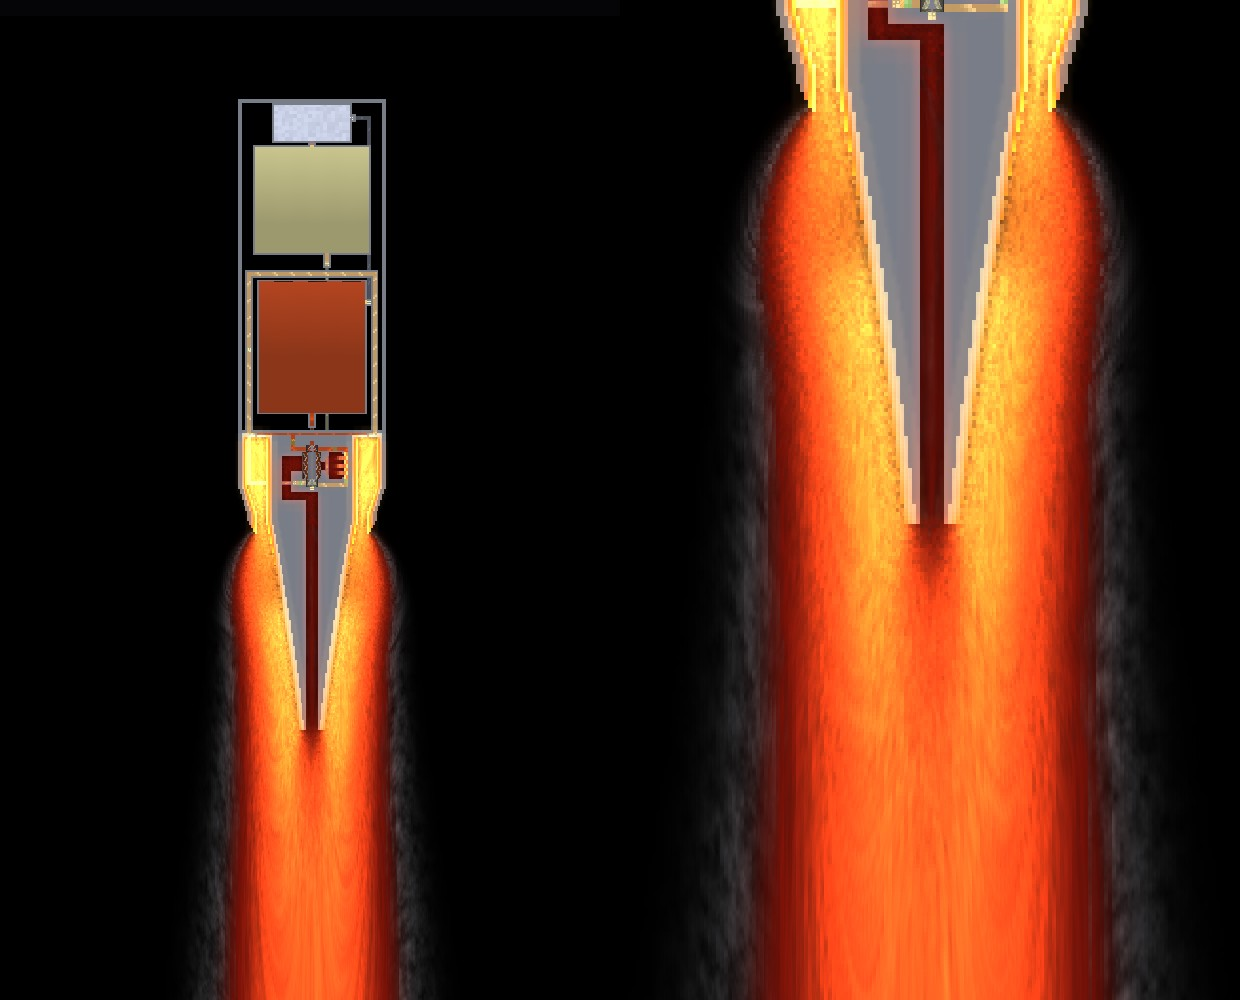
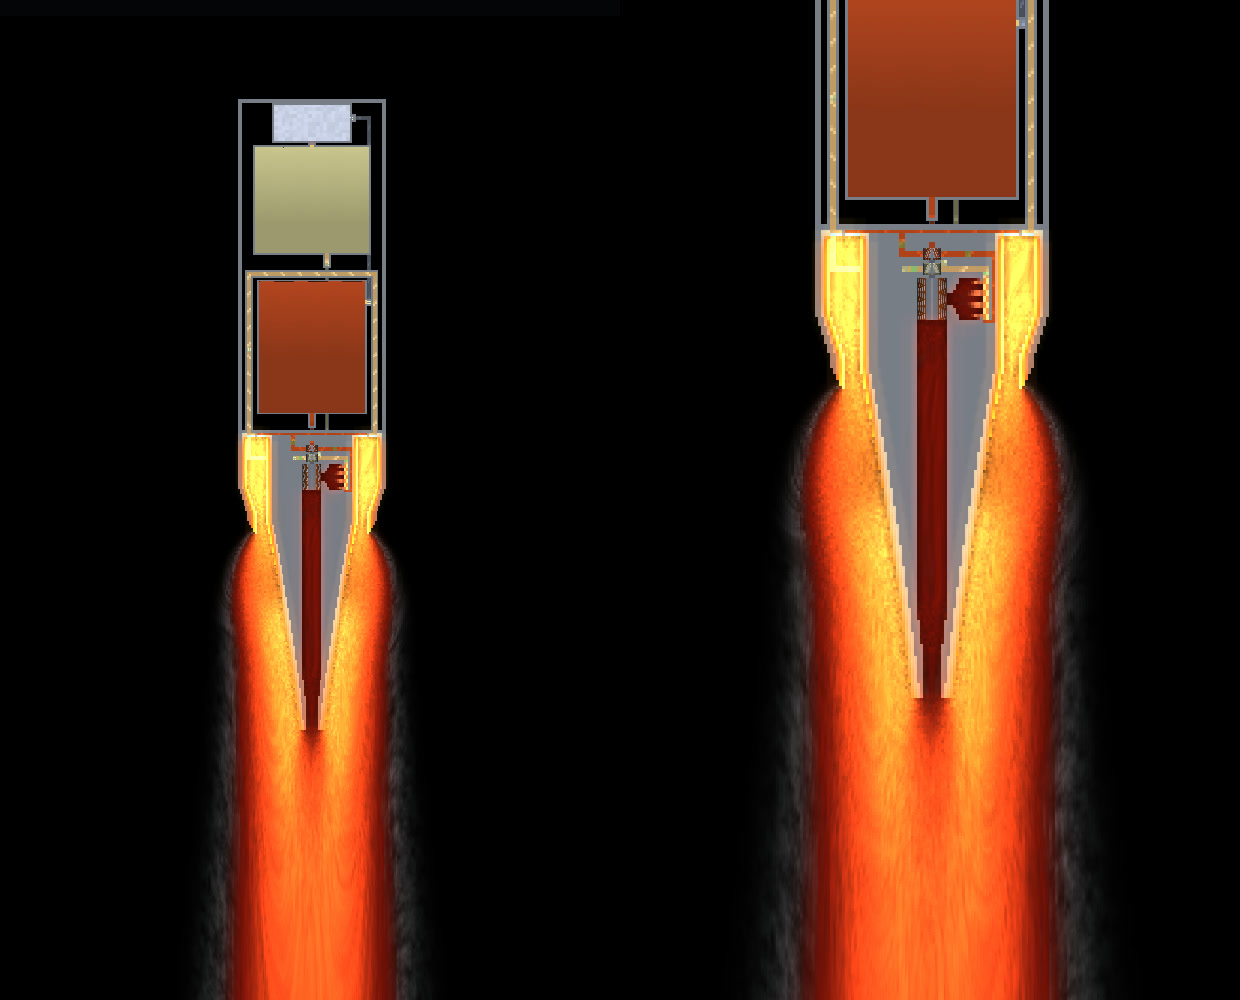
Gas-generator aerospike: turbine at the bottom, straight exhaust down the axis
The shaft is now oxidiser pump, shaft cell, fuel pump, shaft cell, turbine, with the turbine
at the bottom so its exhaust leaves the bottom face straight down the middle of the spike in
a duct that narrows with the spike and opens out of the truncated base, instead of out of the
side, down an L-shaped duct with a jog (less back pressure on the wheel). A pipe touching any
face of a pump joins its network, so the pumps need no open end face; the shaft cells keep the
two pumps from merging into one block. The generator's oxidiser pipe now runs down a one-cell
pipe at the far right past the head to a row under it, and its fuel comes in from above.

diff --git a/src/presets.rs b/src/presets.rs
@@ -1366,21 +1366,27 @@ impl World {
             self.rect(127, y_cap - 1, 128, y_cap + 1, c::PIPE);
             self.rect(127, y_cap - 1, 128, y_cap - 1, c::THROTTLE);
         } else if e.gg {
-            // Gas-generator turbopumps down the middle of the spike, one shaft: oxidiser pump on top, the turbine, the fuel pump
-            // below. The generator is bolted to the turbine's right face, its exhaust leaves the left face into a duct that runs
-            // down the left, jogs to the axis under the fuel pump, and opens out of the spike's truncated base. Both pump outlets
-            // that cross a slot chamber use the back layer, and so do both feeds in.
+            // Gas-generator turbopumps down the middle of the spike, one shaft: oxidiser pump on top, a shaft cell, the fuel pump,
+            // another, and the turbine at the bottom. The turbine's exhaust leaves its bottom face straight down the axis in a duct
+            // that narrows with the spike and opens out of the truncated base, the shortest, straightest way out (little back
+            // pressure on the wheel). The generator is bolted to the turbine's right face. A pipe touching any face of a pump joins
+            // its network, so the pumps need no open end; the shaft cells keep the two pumps from merging into one block.
             let xc = 128;
             let (d_o, l_o, d_f, l_f, d_t, l_t) = (6, 4, 6, 4, 10, 14);
             let y_o = y_cap + 8;
-            let (y_t, y_f) = (y_o + l_o, y_o + l_o + l_t);
+            let y_s1 = y_o + l_o; // shaft cell row between the pumps
+            let y_f = y_s1 + 1;
+            let y_s2 = y_f + l_f; // shaft cell row between the fuel pump and the turbine
+            let y_t = y_s2 + 1;
             let (ox0, ox1) = (xc - d_o / 2, xc - d_o / 2 + d_o - 1);
             let (tx0, tx1) = (xc - d_t / 2, xc - d_t / 2 + d_t - 1);
             let (pf0, pf1) = (xc - d_f / 2, xc - d_f / 2 + d_f - 1);
-            self.rect(ox0, y_o, ox1, y_t - 1, c::PUMP);
-            self.rect(tx0, y_t, tx1, y_f - 1, c::TURBINE);
+            self.rect(ox0, y_o, ox1, y_s1 - 1, c::PUMP);
+            self.rect(xc - 1, y_s1, xc, y_s1, c::SHAFT);
             self.rect(pf0, y_f, pf1, y_f + l_f - 1, c::PUMP);
-            let (cy0, cy1) = (y_t, y_f - 1);
+            self.rect(xc - 1, y_s2, xc, y_s2, c::SHAFT);
+            self.rect(tx0, y_t, tx1, y_t + l_t - 1, c::TURBINE);
+            let (cy0, cy1) = (y_t, y_t + l_t - 1);
             // the generator: a head on the right, a cavity, and a funnel narrowing to a 4-row opening onto the turbine
             let hx = 145;
             let (gc0, gc1) = (137, 144);
@@ -1390,24 +1396,24 @@ impl World {
                 self.rect(gc0 - 1 - k, cy0 + inset, gc0 - 1 - k, cy1 - inset, c::EMPTY);
             }
             self.rect(hx, cy0, hx + 1, cy1, c::GG);
-            // generator feeds: oxidiser from the oxidiser pump's right side, over and down onto the head's top, through a valve;
-            // fuel from the fuel pump's right side, along and up through a valve onto the head's bottom
+            // generator feeds. Oxidiser: out of the oxidiser pump's right side, along, and down a one-cell pipe at the far right of
+            // the spike past the head to a row under it, through a valve. Fuel: out of the fuel pump's right side, along to the
+            // head, and down through a valve onto its top. (The two never touch: the oxidiser pipe stays a cell clear of the head.)
             let yo_m = y_o + l_o / 2 - 1;
-            self.rect(ox1 + 1, yo_m, hx + 1, yo_m + 1, c::PIPE);
+            self.rect(ox1 + 1, yo_m, 148, yo_m + 1, c::PIPE);
             self.rect(hx - 6, yo_m, hx - 5, yo_m + 1, c::VALVE_X);
-            self.rect(hx, yo_m, hx + 1, cy0 - 1, c::PIPE);
-            let yf_m = y_f + l_f / 2 - 1;
-            let yf_g = y_f + 2; // the generator's fuel row, a little below the main outlet's
+            self.rect(148, yo_m + 2, 148, cy1 + 1, c::PIPE);
+            self.rect(hx, cy1 + 1, 148, cy1 + 1, c::PIPE);
+            let yf_g = y_f + 1; // the generator's fuel row
             self.rect(pf1 + 1, yf_g, hx + 1, yf_g + 1, c::PIPE);
-            self.rect(hx, cy1 + 1, hx + 1, cy1 + 1, c::PIPE);
-            self.rect(hx, cy1 + 2, hx + 1, cy1 + 2, c::VALVE_X);
-            // the exhaust: a window on the turbine's left face, a channel down the left, a jog to the axis under the fuel pump, and
-            // a channel down the axis out of the base
-            let y_fi = y_f + l_f; // fuel inlet rows y_fi, y_fi + 1
-            self.rect(112, y_t + 2, tx0 - 1, y_t + 9, c::EMPTY);
-            self.rect(112, y_t + 2, 116, y_fi + 6, c::EMPTY);
-            self.rect(112, y_fi + 3, xc + 2, y_fi + 6, c::EMPTY);
-            self.rect(xc - 3, y_fi + 3, xc + 2, y_end as i32, c::EMPTY);
+            self.rect(hx, yf_g + 2, hx + 1, yf_g + 2, c::VALVE_X);
+            self.rect(hx, yf_g + 3, hx + 1, cy0 - 1, c::PIPE);
+            // the exhaust: straight down the axis from the turbine's bottom face, as wide as the spike allows (half-width 5, less
+            // near the base where the spike is thin) and out of the base
+            for y in (y_t + l_t)..=(y_end as i32) {
+                let hd = (spike(y as f32 + 0.5) - liner - 2.0).clamp(3.0, 5.0) as i32;
+                self.rect(xc - hd, y, xc + hd - 1, y, c::EMPTY);
+            }
             // oxidiser main outlet: out of the pump's left side and up to the line over the top of the spike, through the main valve
             // and the throttle (downstream of the pump, as on the Merlin, so the pump and the generator's branch are connected to
             // the tank from the start and the start sequence can open the generator's valve)
@@ -1420,15 +1426,17 @@ impl World {
             self.rect(127, ox_y.1 + 6, 128, ox_y.1 + 7, c::JOINT);
             self.rect(127, y_o - 2, 128, y_o - 1, c::JOINT);
             back.push((127, ox_y.1 + 6, 128, y_o - 1));
-            // fuel inlet: straight from the right of the tank's bottom, a joint, behind the stack down the right and along to a joint
-            // on the fuel pump's bottom face
+            // fuel inlet: straight from the right of the tank's bottom, a joint, behind the stack down the right, and a joint against
+            // the fuel pump's right face just above the generator's fuel row
+            let y_fi = y_f - 1; // inlet joint rows y_fi, y_fi + 1
             self.rect(135, fuel_y.1 + 1, 136, fuel_y.1 + 5, c::PIPE);
             self.rect(135, fuel_y.1 + 6, 136, fuel_y.1 + 7, c::JOINT);
-            self.rect(127, y_fi, 128, y_fi + 1, c::JOINT);
+            self.rect(pf1 + 1, y_fi, pf1 + 2, y_fi + 1, c::JOINT);
             back.push((135, fuel_y.1 + 6, 136, y_fi + 1));
-            back.push((128, y_fi, 136, y_fi + 1));
+            back.push((pf1 + 1, y_fi, 136, y_fi + 1));
             // fuel main outlet: out of the pump's left side, through the main valve and the throttle, a joint, then behind the engine
             // to a joint in the left side pipe
+            let yf_m = y_f + l_f / 2 - 1;
             self.rect(118, yf_m, pf0 - 1, yf_m + 1, c::PIPE);
             self.rect(121, yf_m, 122, yf_m + 1, c::VALVE_X);
             self.rect(120, yf_m, 120, yf_m + 1, c::THROTTLE);

diff --git a/README.md b/README.md
@@ -70,9 +70,9 @@ All three are MMH/N2O4 hypergolic, so none needs an igniter.
 - **Aerospike**: pressure-fed, a helium-pressurised stage with no pumps.
 - **Aerospike, pump-fed**: electric pumps inside the spike (the engine's tail): an oxidiser pump, a motor and a fuel pump on one
   shaft down the middle, a battery pack beside the motor, low-pressure tanks and a higher chamber pressure.
-- **Aerospike, gas generator**: a turbopump inside the spike driven by a gas generator, with the generator's exhaust ducted down
-  through the spike and out of its truncated base, filling the wake behind it (base bleed, as on the XRS-2200). It starts on tank
-  head.
+- **Aerospike, gas generator**: a turbopump inside the spike driven by a gas generator. The turbine is at the bottom of the shaft,
+  so its exhaust goes straight down a duct through the middle of the spike (little back pressure on the wheel) and out of the
+  truncated base, filling the wake behind it (base bleed, as on the XRS-2200). It starts on tank head.
 
 Below is the pressure-fed one in the raw simulation at sea level, 8 km and 25 km: a narrow column off the spike at sea level, and
 a widening, billowing jet at altitude. The second picture is the gas-generator version, whole and with a close-up of the base,
